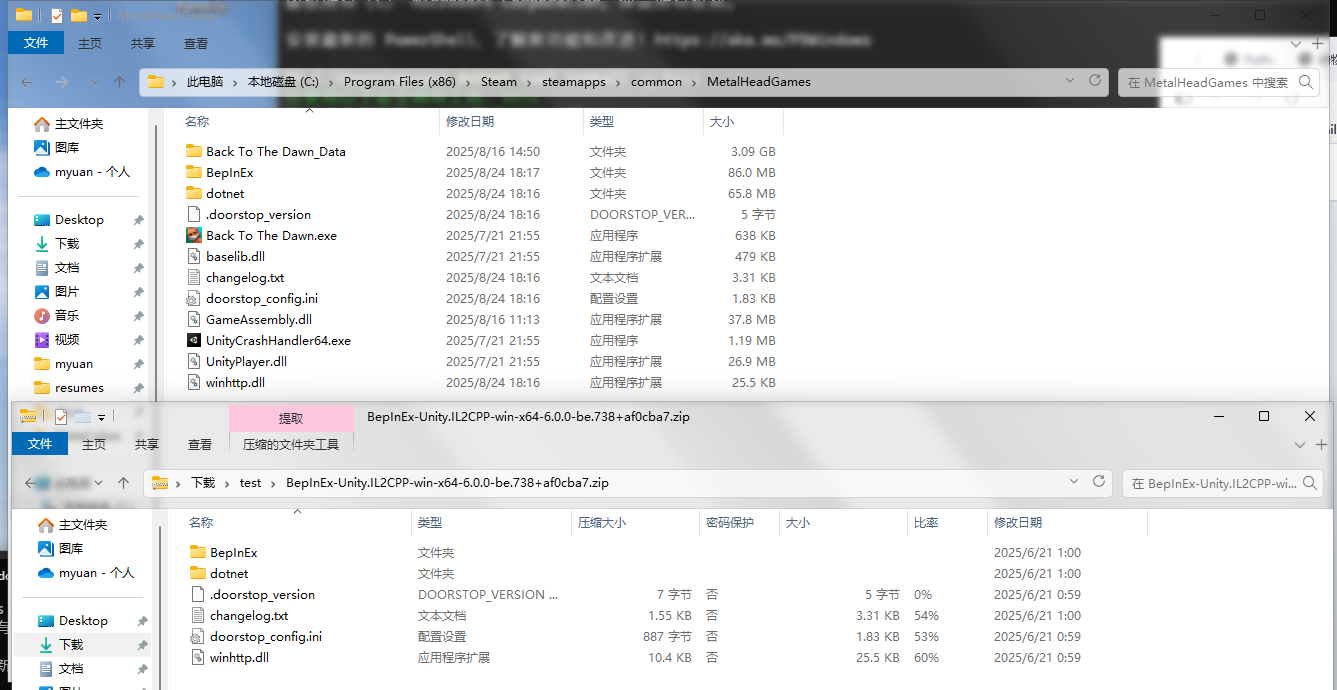
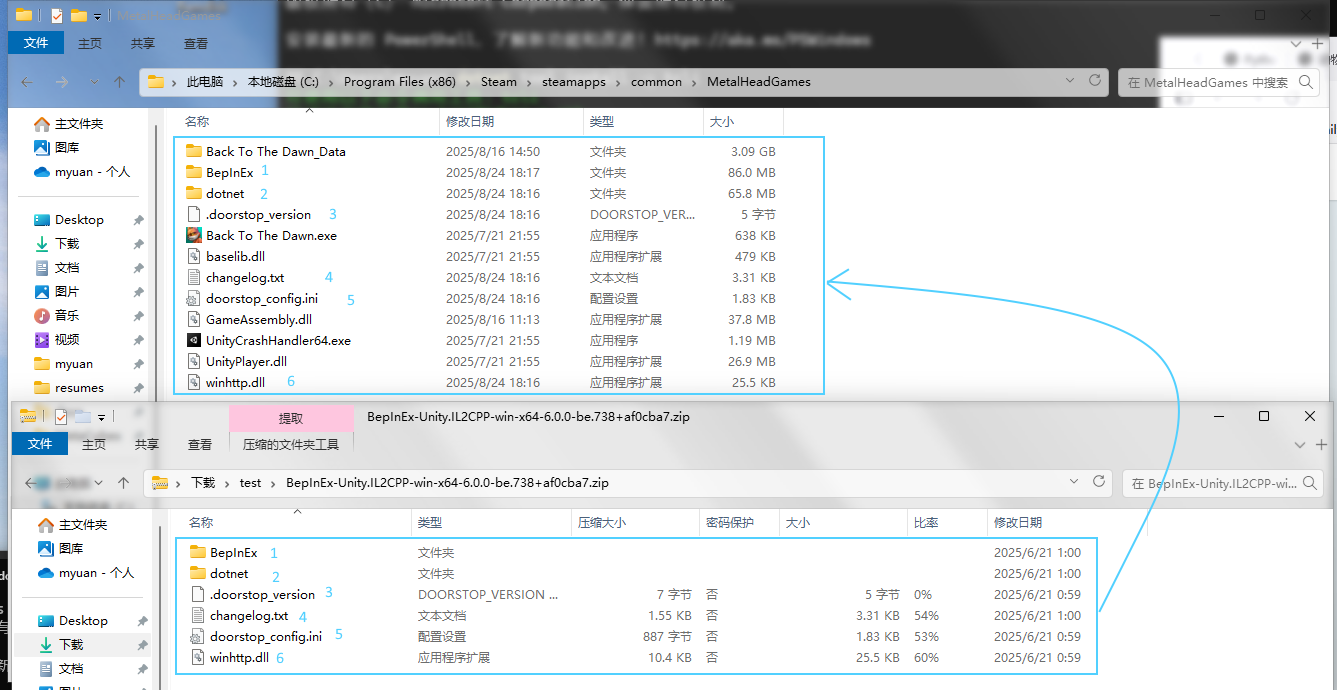
优化教程

diff --git a/README.md b/README.md
@@ -13,32 +13,37 @@
 
 ## 安装
 
-本插件基于 BepInEx 6.0 开发, 要正确安装插件需要两步:
+本插件基于 BepInEx 6.0 开发, 要正确安装插件需要:
 
-1. 安装 BepInEx 6.0
-2. 安装本插件 dll
+1. 下载 BepInEx+本插件
+2. 安装 BepInEx 6.0
+3. 安装本插件 dll
 
 ### 下载
 
-1. 如果你能访问 xget (通常可以), 可以点击 https://xget.xi-xu.me/gh/myuanz/BackToDawnCommPlugin/releases/download/1.0.1/FastDialog-1.0.1.zip 和 https://xget.xi-xu.me/gh/myuanz/BackToDawnCommPlugin/releases/download/1.0.1/BepInEx-Unity.IL2CPP-win-x64-6.0.0-be.738+af0cba7.zip 
-2. 如果你的 Github 足够快, 可以从 https://github.com/myuanz/BackToDawnCommPlugin/releases 下载
-3. 如果你有百度盘会员, 可以从 https://pan.baidu.com/s/1RykwajmrnOtyts2o0N2jYw?pwd=pyht 下载
+任选一种方法
+
+1. 如果你从群文件里下载了一整个压缩包, 那么已经足够
+2. 如果你能访问 xget (通常可以), 可以点击 https://xget.xi-xu.me/gh/myuanz/BackToDawnCommPlugin/releases/download/1.0.1/FastDialog-1.0.1.zip 和 https://xget.xi-xu.me/gh/myuanz/BackToDawnCommPlugin/releases/download/1.0.1/BepInEx-Unity.IL2CPP-win-x64-6.0.0-be.738+af0cba7.zip 
+3. 如果你的 Github 足够快, 可以从 https://github.com/myuanz/BackToDawnCommPlugin/releases 下载
+4. 如果你有百度盘会员, 可以从 https://pan.baidu.com/s/1RykwajmrnOtyts2o0N2jYw?pwd=pyht 下载
+
 
 下载完成后你应该得到这两个文件 ![alt text](static/all-files.png)
 
 ### 首次安装
 
 1. 在 Steam 库中找到动物迷城, 右键->管理->浏览本地文件
-2. 将 BepInEx 解压到游戏根目录, 解压后应当大致如下 ![alt text](static/1.decompress.png)
+2. 将 BepInEx 根目录里的东西与游戏根目录里混合, 解压后应当大致如下 ![alt text](static/1.decompress.png) 注意是混合, 混合后结构应与图片相同, 文件和目录一一对应
 3. 正常启动一次游戏, BepInEx会解码游戏, 此时应该有一个命令行黑框出现, 稍等片刻游戏正常启动后就可关掉
-2. 进入`BepInEx\plugins`下, 将 `FastDialog.zip` 里的 dll 解压到这里, ![alt text](static/2.install-fastdialog.png) 你的游戏可能在别处安装, 但路径的最后三级应该都是`BepInEx\plugins\FastDialog`
-5. 启动游戏
+4. 进入游戏根目录的`BepInEx\plugins`下, 将 `FastDialog.zip` 里的 dll 解压到这里, 结构如下: ![alt text](static/2.install-fastdialog.png) 你的游戏可能在别处安装, 但路径的最后三级应该都是`BepInEx\plugins\FastDialog`
+5. 启动游戏, 按F9开始使用
    
 ### 更新插件
 
 1. 在 Steam 库中找到动物迷城, 右键->管理->浏览本地文件
 2. 进入`BepInEx\plugins`下, 将 `FastDialog.zip` 里的 dll 解压到这里, ![alt text](static/2.install-fastdialog.png) 你的游戏可能在别处安装, 但路径的最后三级应该都是`BepInEx\plugins\FastDialog`
-3. 启动游戏
+3. 启动游戏, 按F9开始使用
 
 ## TODO
 
@@ -48,6 +53,8 @@
 ## 从源代码开发
 
 ```powershell
+git clone https://github.com/myuanz/BackToDawnCommPlugin
+cd BackToDawnCommPlugin
 $env:BTTD_DIR = "你的游戏安装目录"
 dotnet build
 python build_and_copy.py # 用于结束游戏、构建dll、复制dll、启动游戏
